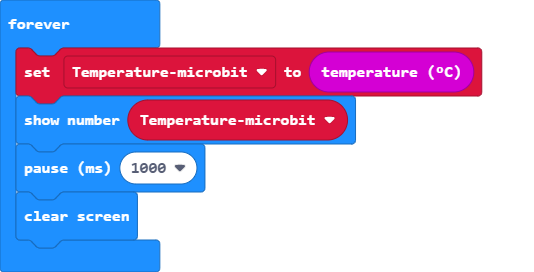
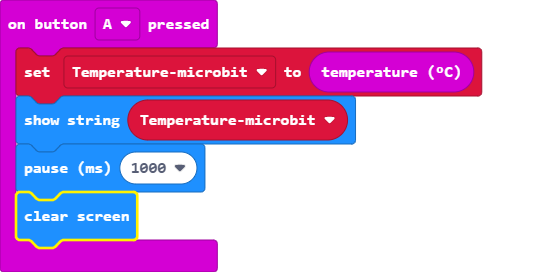
add comment

Changed region(s): [[0.0, 0.0, 0.4195, 1.0], [0.1199, 0.4118, 0.2397, 0.4706]]

diff --git a/main.ts b/main.ts
@@ -1,7 +1,7 @@
 let Temperaturemicrobit = 0
-basic.forever(function () {
+input.onButtonPressed(Button.A, function () {
     Temperaturemicrobit = input.temperature()
-    basic.showNumber(Temperaturemicrobit)
+    basic.showString("" + (Temperaturemicrobit))
     basic.pause(1000)
     basic.clearScreen()
 })
